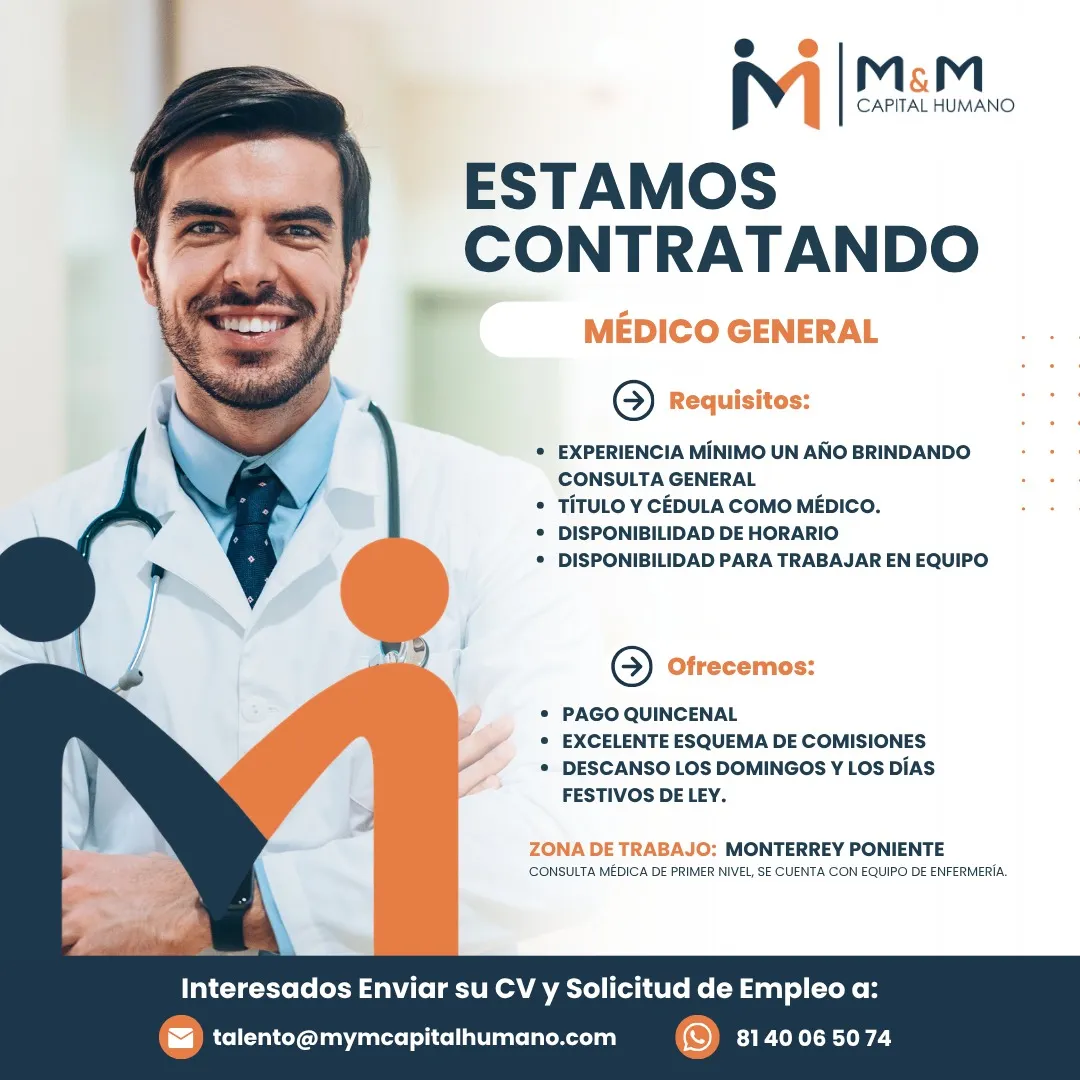
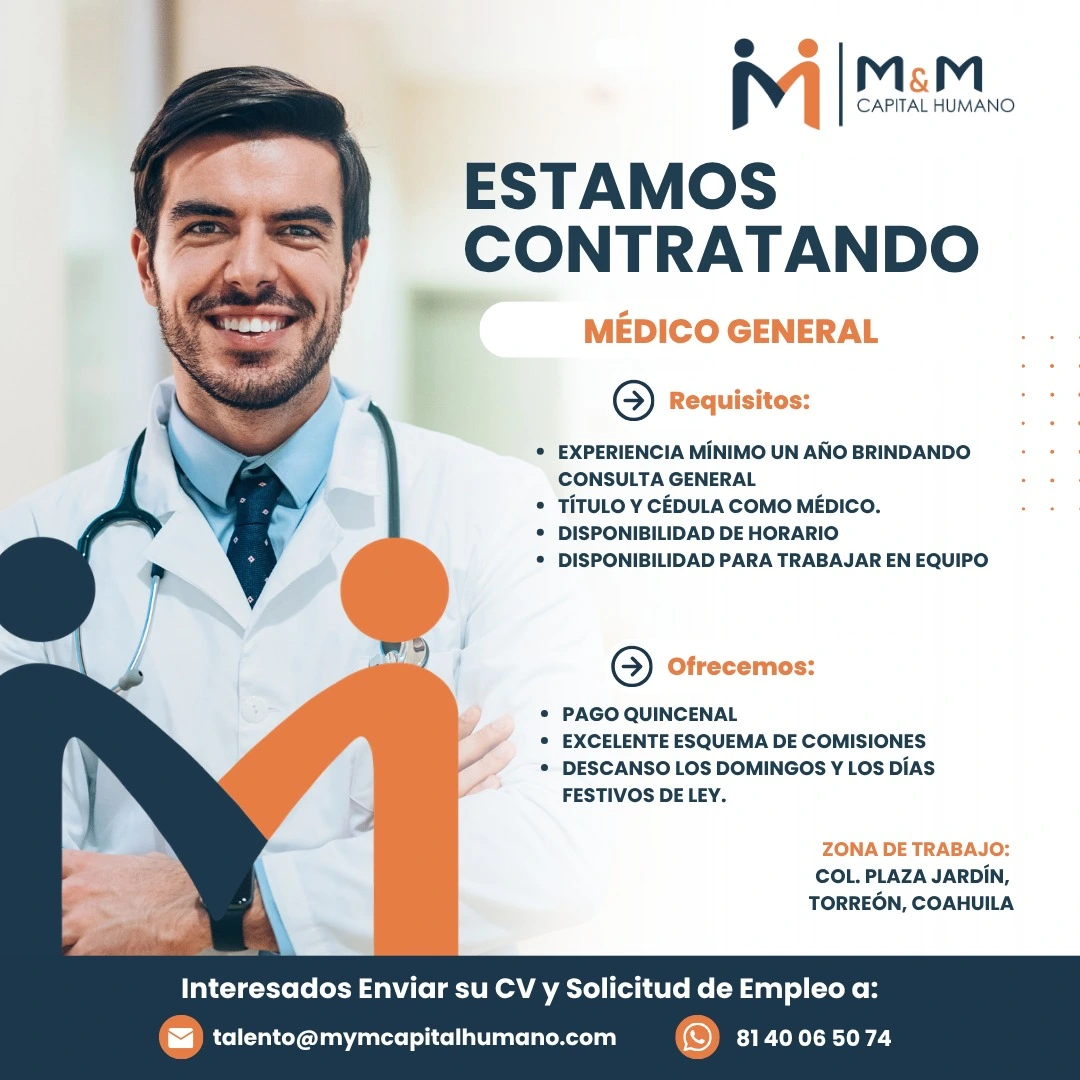
Actualizacion Vacantes

Changed region(s): [[0.4889, 0.7639, 0.9472, 0.8556]]

diff --git a/index.html b/index.html
@@ -253,7 +253,7 @@
           </div>
 
           <a 
-            href="https://wa.me/5218140065074?text=Hola%2C%20me%20interesa%20postularme%20a%20la%20vacante%20de%20*M%C3%A9dico%20General*%20en%20Monterrey%20Poniente.%20%C2%BFMe%20podr%C3%ADan%20dar%20m%C3%A1s%20informaci%C3%B3n%3F"
+            href="https://wa.me/5218140065074?text=Hola%2C%20me%20interesa%20postularme%20a%20la%20vacante%20de%20*M%C3%A9dico%20General*%20en%20Col.%20Plaza%20Jard%C3%ADn%2C%20Torre%C3%B3n%20Coahuila.%20%C2%BFMe%20podr%C3%ADan%20dar%20m%C3%A1s%20informaci%C3%B3n%3F"
             class="vacante-btn"
             target="_blank"
             rel="noopener">
@@ -265,20 +265,19 @@
 
 
       <!-- VACANTE 3 -->
-      <div class="col-lg-4 col-md-6" data-aos="fade-up" data-aos-delay="200">
+      <div class="col-lg-4 col-md-6" data-aos="fade-up" data-aos-delay="150">
         <div class="vacante-card">
 
           <div class="vacante-img-wrap">
-            <img src="assets/img/vacante-proximamente.svg" width="1080" height="1080" loading="lazy" alt="Vacante CDMX">
+            <img src="assets/img/Vacante3.webp" width="1080" height="1080" loading="lazy" alt="Vacante: Médico General en Col. Centro, Guadalupe, Nuevo León">
           </div>
 
           <a 
+            href="https://wa.me/5218140065074?text=Hola%2C%20me%20interesa%20postularme%20a%20la%20vacante%20de%20*M%C3%A9dico%20General*%20en%20Col.%20Centro%2C%20Guadalupe%2C%20Nuevo%20Le%C3%B3n.%20%C2%BFMe%20podr%C3%ADan%20dar%20m%C3%A1s%20informaci%C3%B3n%3F"
             class="vacante-btn"
             target="_blank"
             rel="noopener">
-
-            <i class="bi bi-whatsapp"></i> Próximamente
-
+            <i class="bi bi-whatsapp"></i> Me interesa
           </a>
 
         </div>
